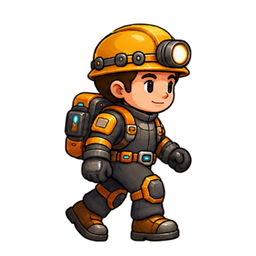
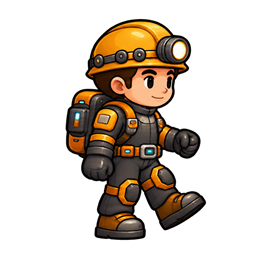
fix: 광부 걷기 양발 교대 자세 보완

Changed region(s): [[0.25, 0.0625, 0.8125, 0.9688]]

diff --git a/work_process/player-walk-two-leg-result-20261022.md b/work_process/player-walk-two-leg-result-20261022.md
@@ -1,0 +1,22 @@
+# 걷기 양발 교대 보완 — 2026-10-22
+
+## 요청·분석
+
+- 걷기 중 한 다리만 움직여 보인다는 피드백에 따라 실제 Player.prefab 바인딩, PlayerAnimationController.Play/ResolveFrames, Walk PNG 10장을 비교했다.
+- 실제 프리팹은 10장 모두 연결돼 있고, Walk는 10fps로 순환한다. 같은 상태에서 타이머를 계속 초기화하는 경로는 찾지 못했다. 런타임은 Animator가 아니라 SpriteRenderer를 직접 갱신하므로 애니메이션 클립만 변경하는 것은 해법이 아니다.
+- 기존 그림 대부분이 같은 발을 앞으로 내민 자세였다. 반대 발 착지/교차 자세 부족이 이번 보완의 대상이다. 실제 제보 화면의 모든 조건을 재현한 결과는 아니다.
+
+## 변경
+
+- 기존 광부를 기준으로 이미지 생성 후, 양발 접지와 반대쪽 팔 스윙이 구분되는 4개 핵심 자세를 선별했다. 발 교대가 약했던 초기 시안은 적용하지 않았다.
+- `sub-terra/Assets/_Project/Art/Characters/Player/Frames/Walk/walk_01.png`~`walk_10.png` 교체.
+- 01~02: 첫 발 착지, 03~05: 반대 발 통과, 06~07: 반대 발 착지 및 팔 교대, 08~10: 첫 발 통과. 4개 자세를 0.2/0.3/0.2/0.3초 유지하는 1초 주기다. 10장이 모두 서로 다른 중간 그림인 것은 아니다.
+- 256×256, 투명 배경, 기존 GUID/.meta/피벗/PPU/프리팹 연결 유지. 헬멧 높이와 바닥 기준을 맞췄다. 전체 캐릭터 좌우 반전으로 반대 발을 대신하지 않았다.
+- 런타임 속도·이동·사다리·점프 코드는 변경하지 않았다.
+
+## 검증과 인계
+
+- 4자세 접촉 시트 육안 비교: `work_process/images/player-walk-four-poses-20261022.png`. PNG 경계 잘림 없음, 동일 해상도. Unity 최종 실행에서 에셋 가져오기와 컴파일 완료.
+- 타일 작업과 함께 실행한 최소 검사는 12/12 통과했지만 이 수치를 걷기 체감 품질 검사로 해석하지 않는다. 실제 이동 중 좌/우 방향·정지 전환과 보폭 느낌은 화면 피드백을 받을 대상이다. 별도 무거운 빌드는 하지 않았다.
+- 사용자 승인에 따라 PNG 10개와 이 문서·접촉 시트를 `codex/player-walk-two-leg-cycle` 브랜치에서 별도 커밋/PR로 전달한다. 타일 후속은 기존 #225에 남기며 #211 stash는 건드리지 않는다.
+- 첫 Unity Hub 프로젝트: `C:/Users/jeone/sub-terra/sub-terra`, 시작 씬 Bootstrap. 다른 worktree 프로젝트로 확인하지 않는다.
